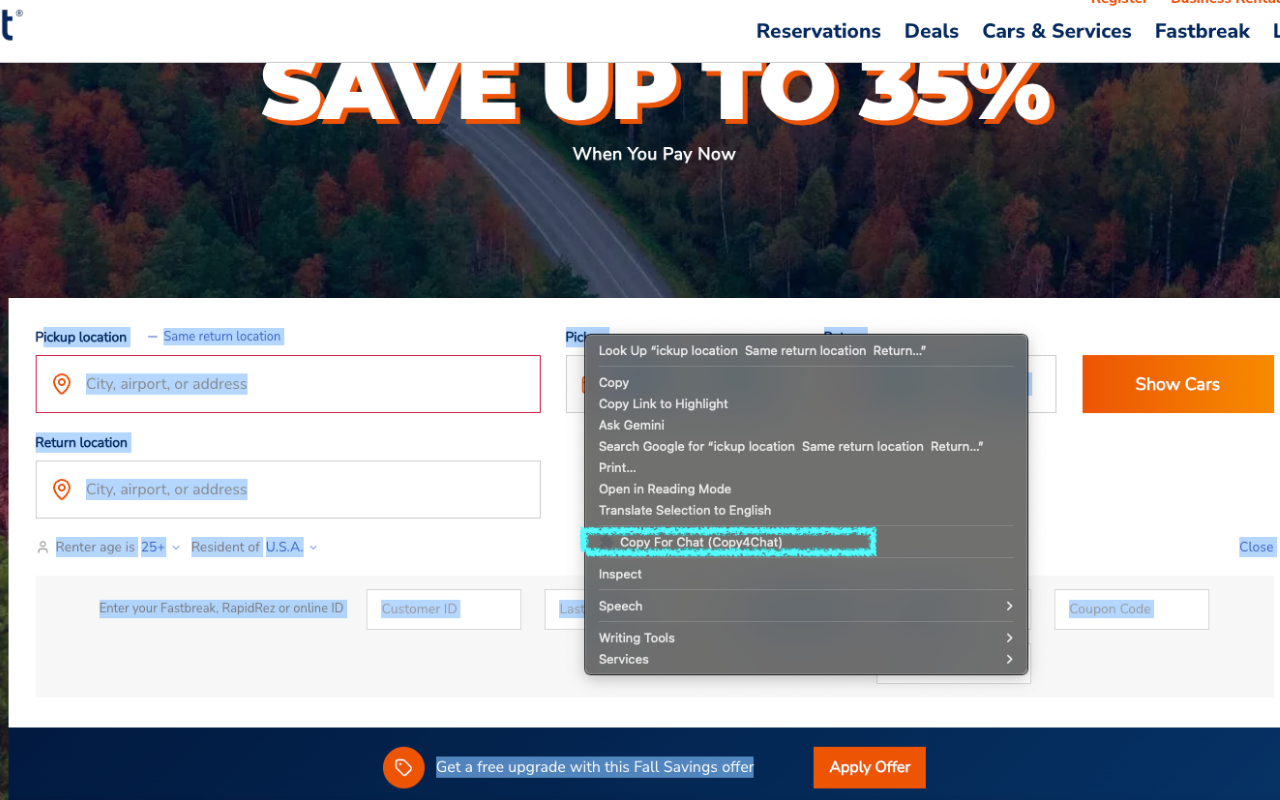
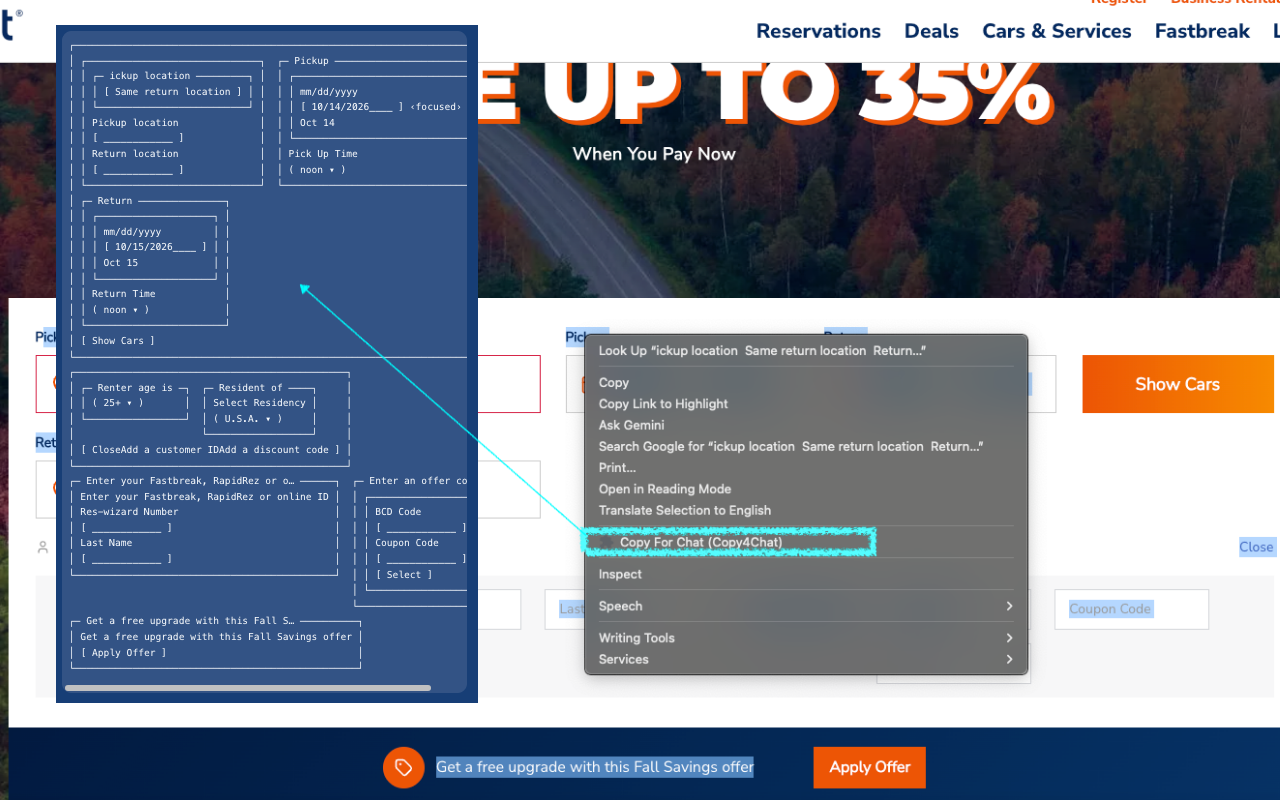
Flatten screenshot alpha; refresh 640x400
The updated capture overlays the pasted output with a callout to the menu
item, which reads much better — but it carried an alpha channel, and the
store requires 24-bit PNG with none. Composited onto white and re-derived
the smaller size from the flattened original.

Changed region(s): [[0.0312, 0.0312, 0.375, 0.9062]]

diff --git a/store/listing.md b/store/listing.md
@@ -140,7 +140,15 @@ accurate as the code changes.
 
 Build and verify with `./tools/package.sh`.
 
-## 10. How the screenshot was produced
+## 10. Screenshot notes
+
+All listing images must be 24-bit PNG **without an alpha channel**. A capture
+exported with transparency will be rejected, so flatten before uploading:
+render it onto an opaque background at the target size (the same headless
+Chrome step used for the icons works), then re-derive the 640×400 from the
+flattened 1280×800 rather than from the original.
+
+### Deriving an accepted size from an over-wide capture
 
 `img/screenshot.png` is 1787×827 (2.16:1); the store wants 1.6:1. Scaling and
 padding left the content small inside white bars, and a centred crop sliced
